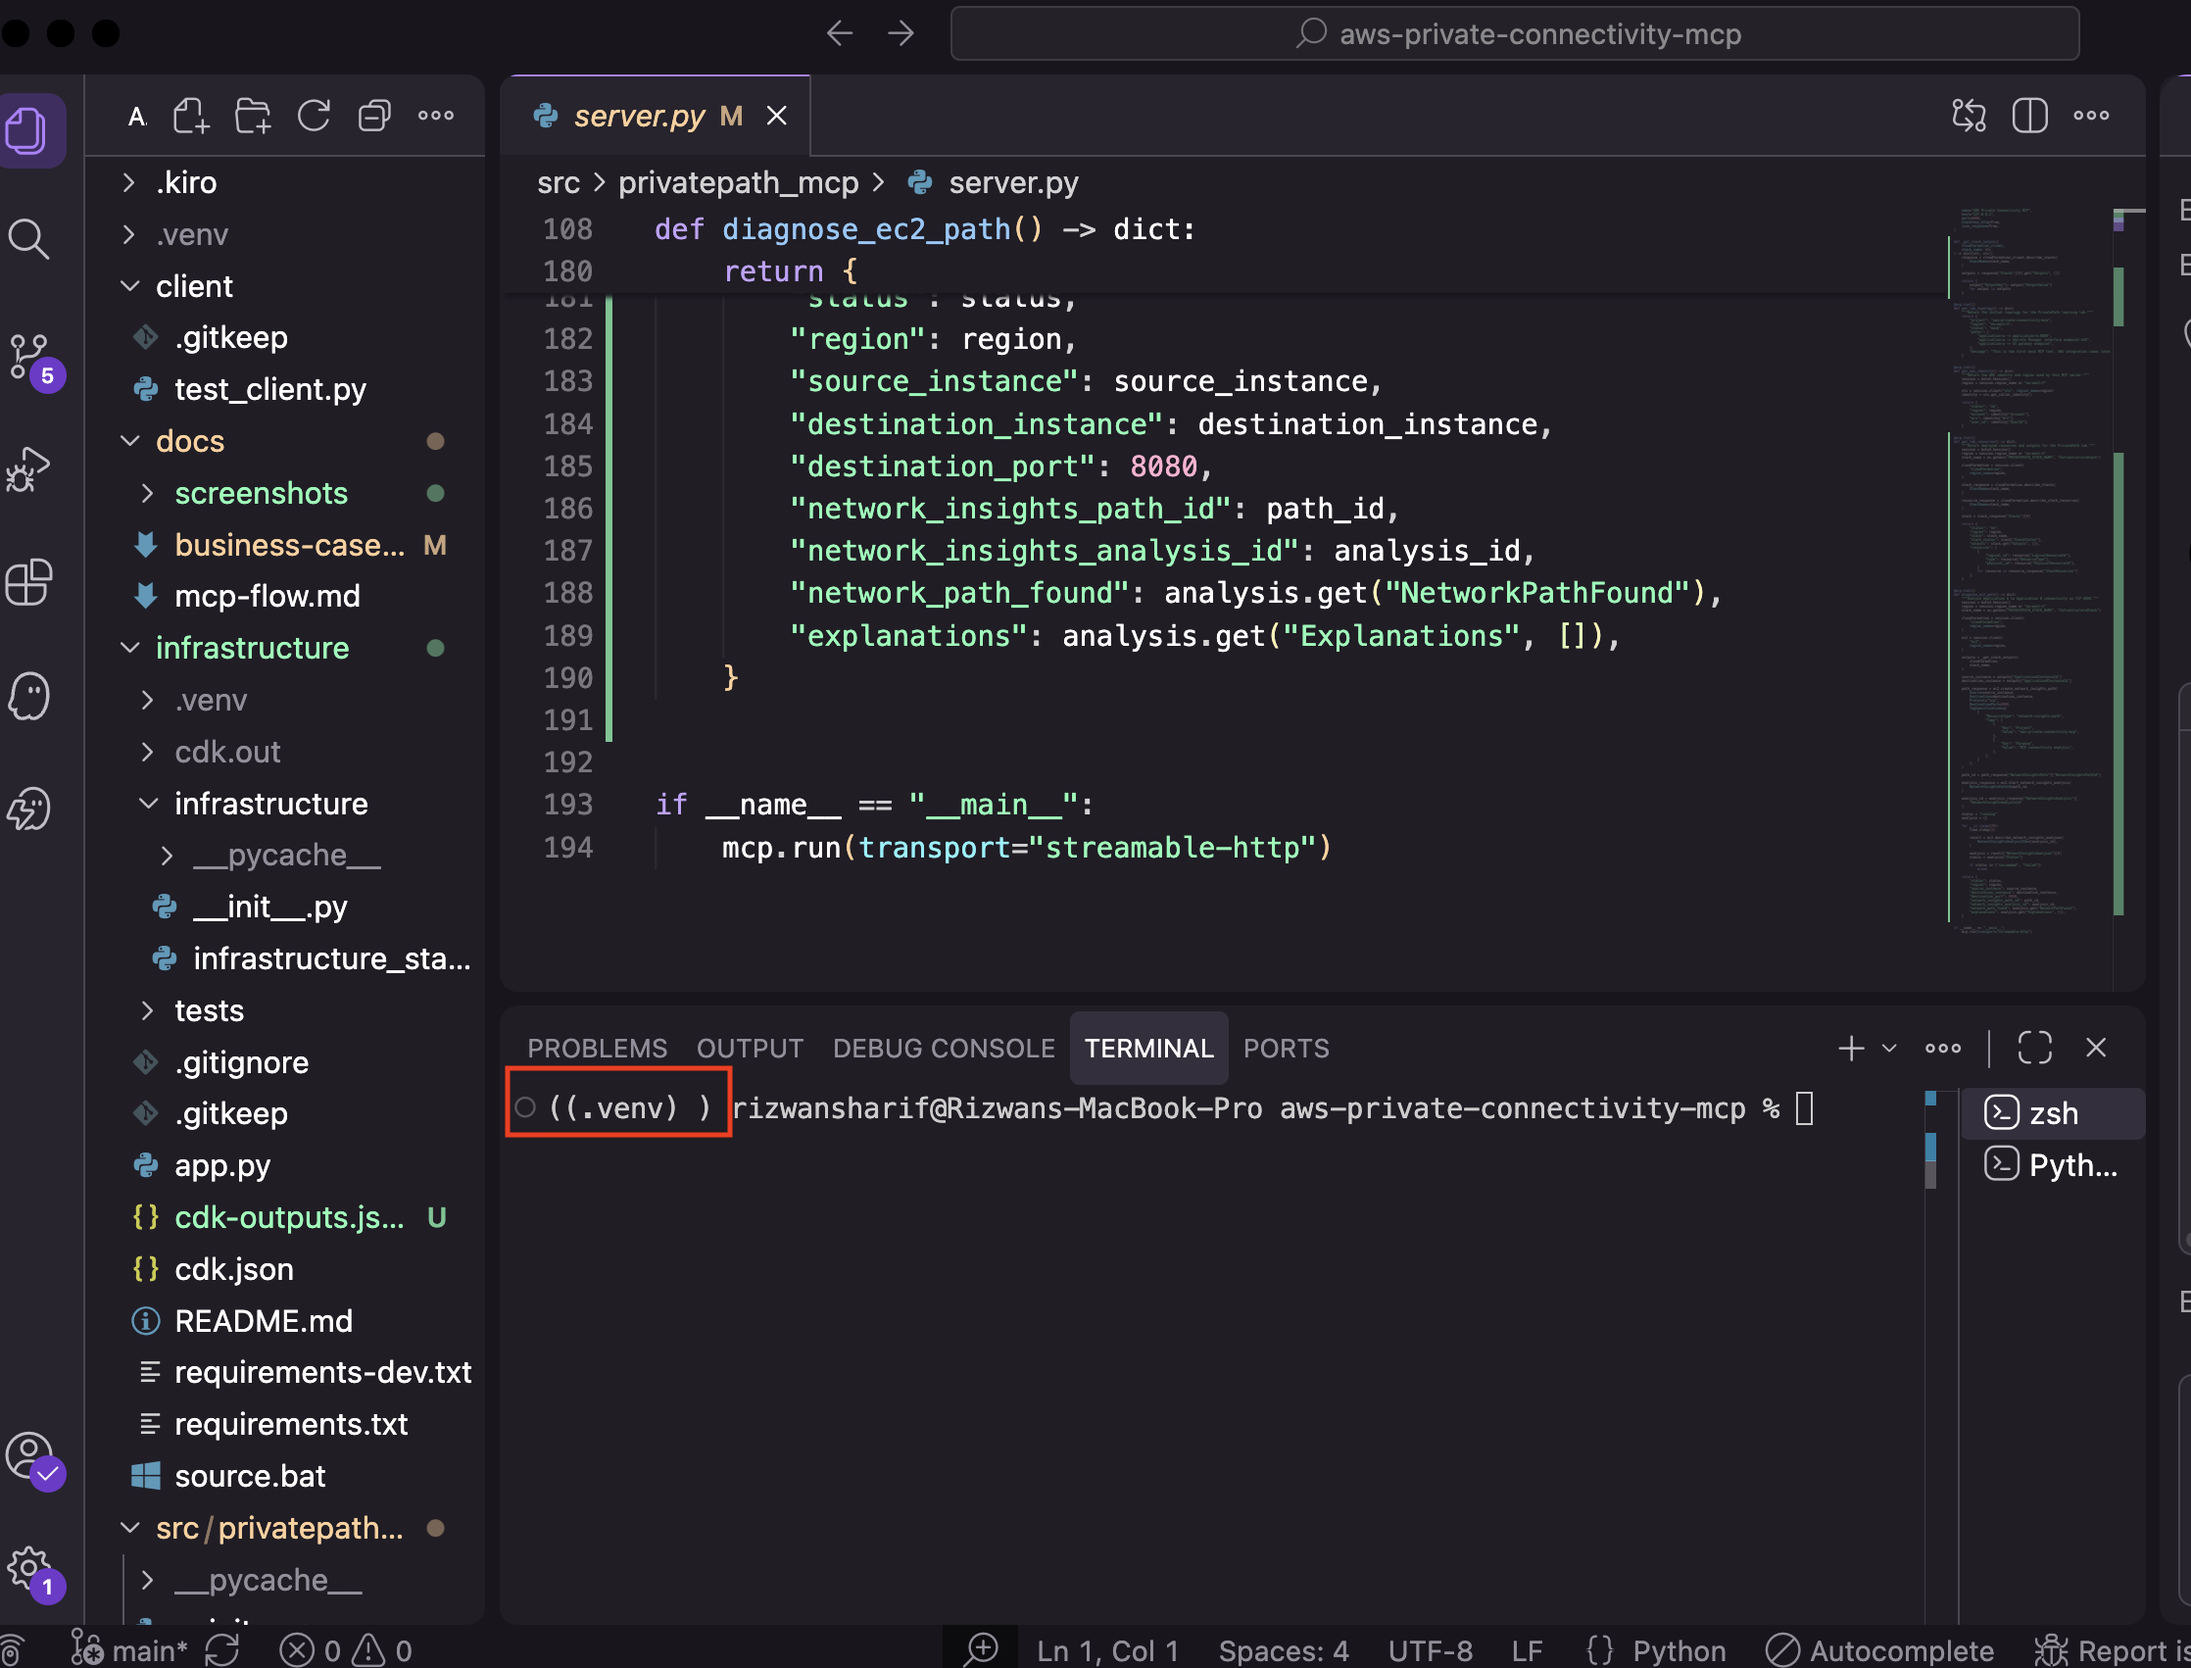
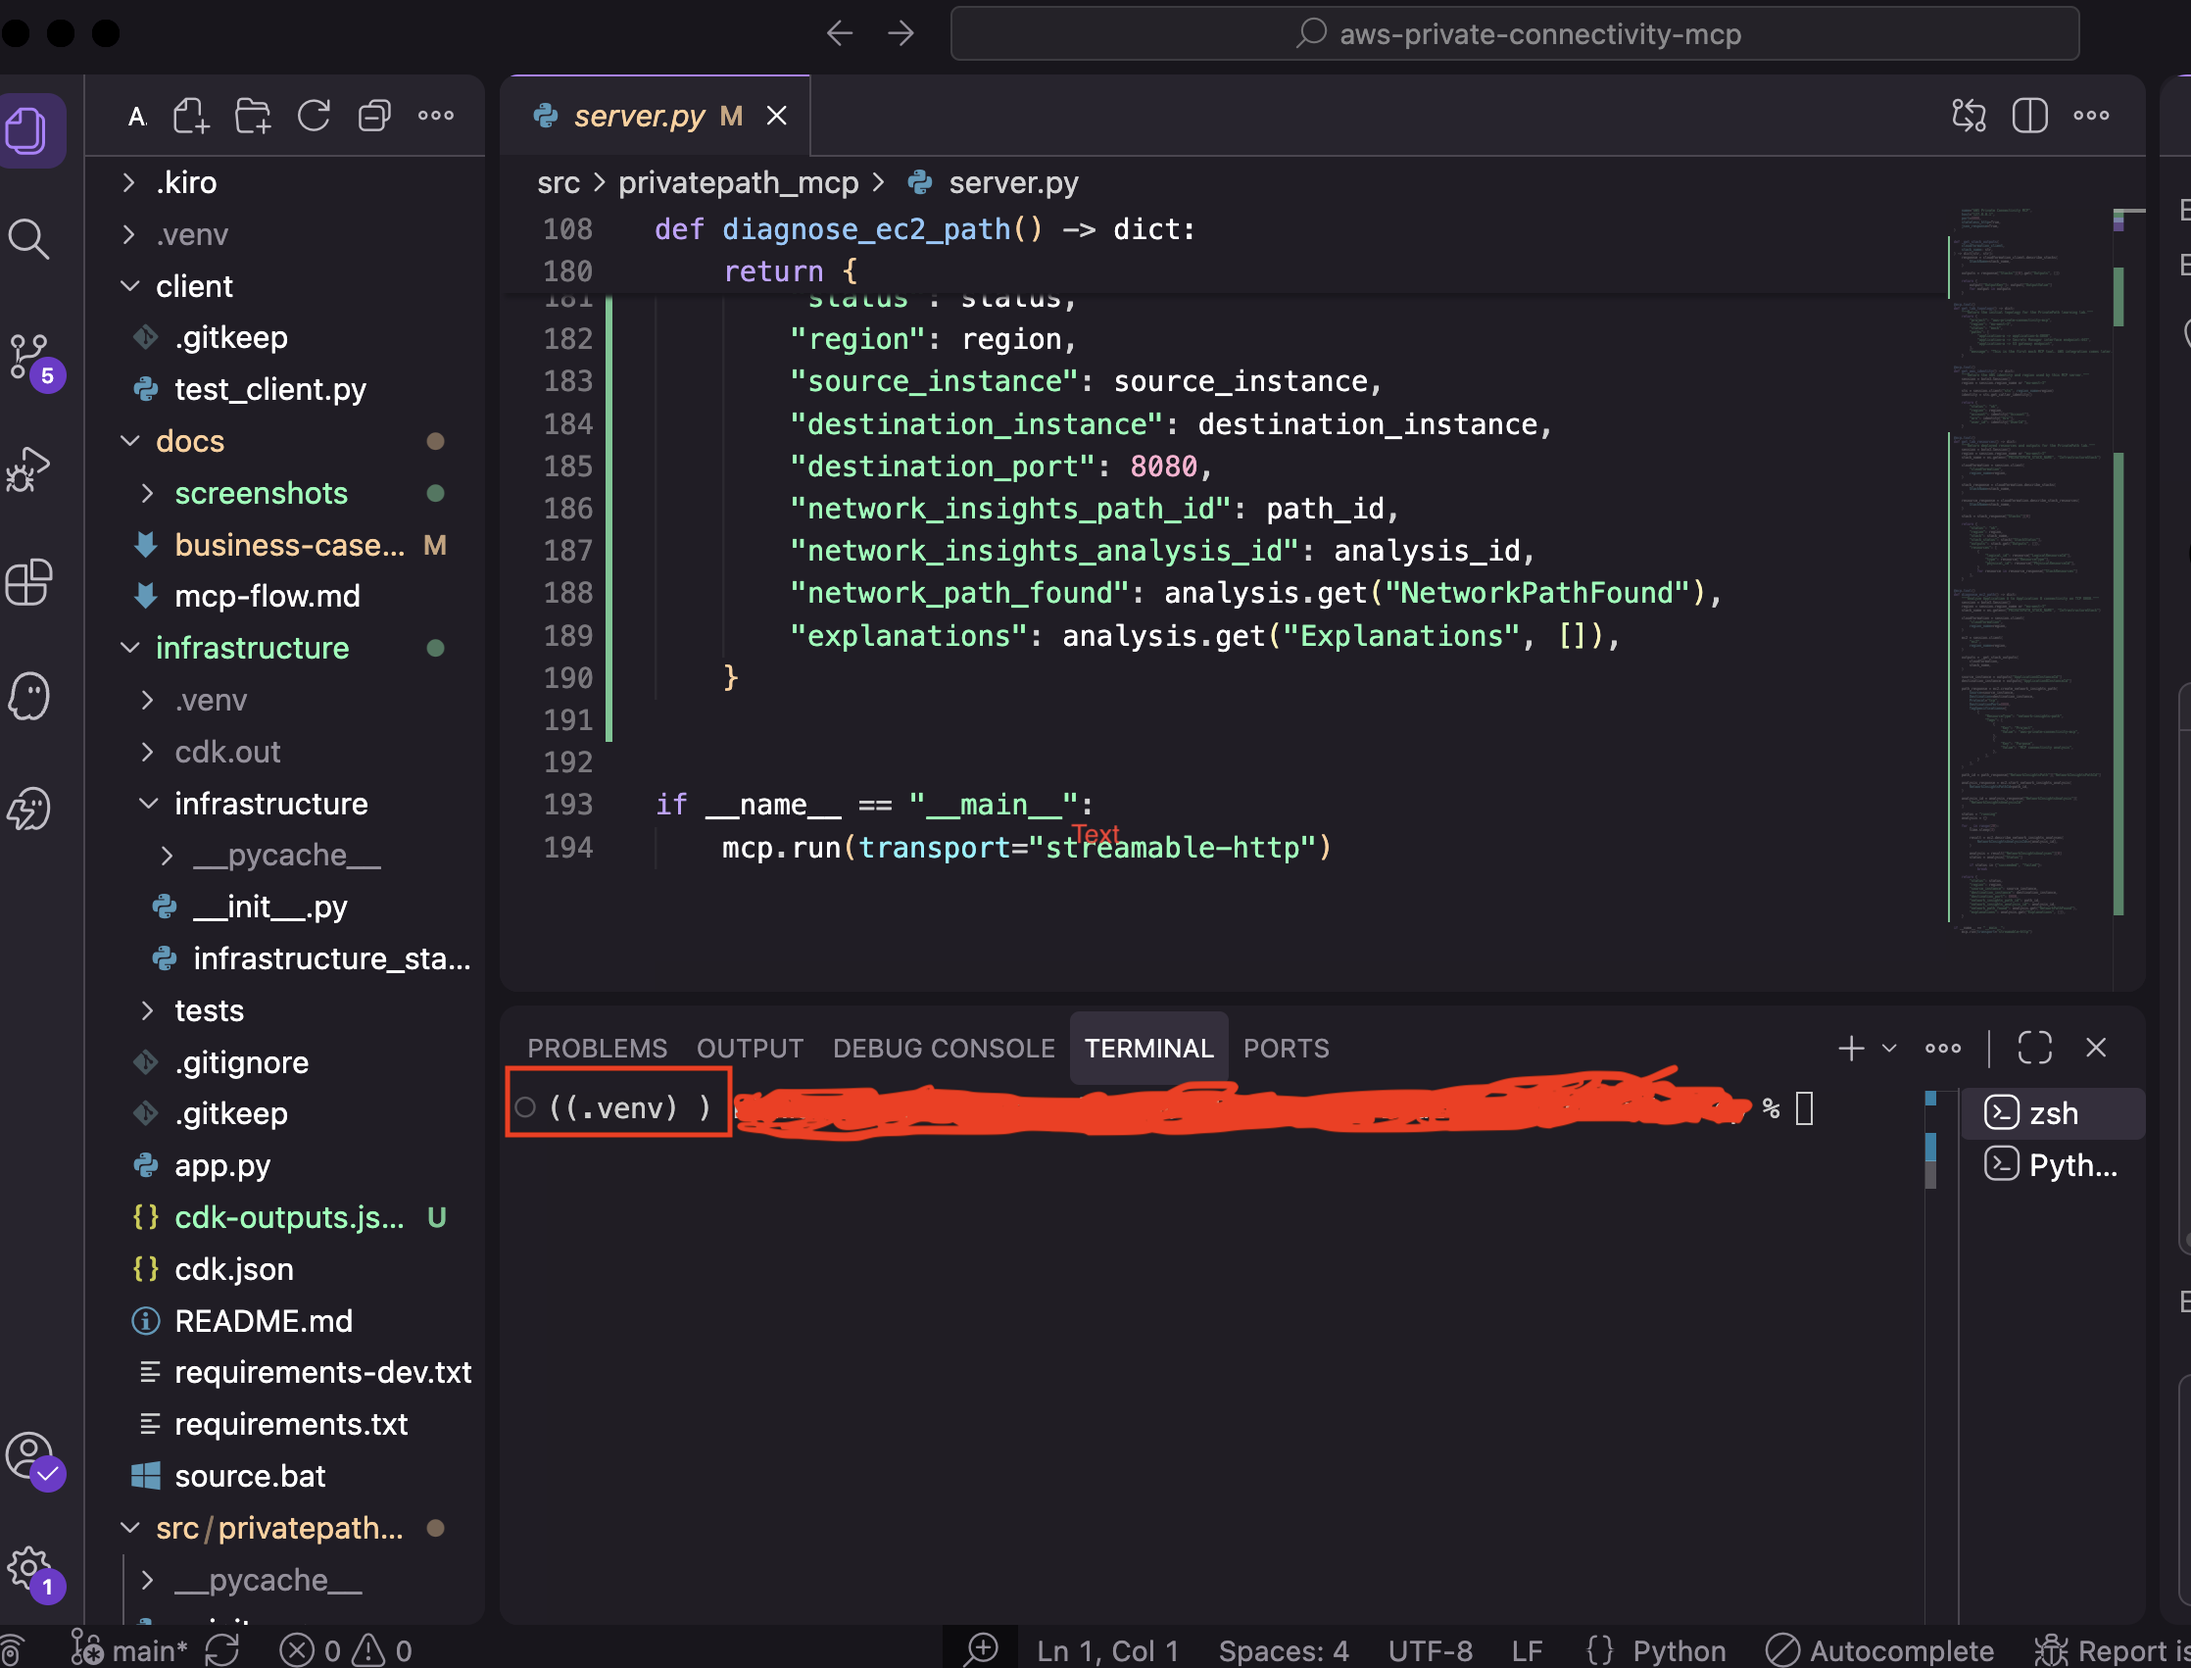
Add manually redacted Phase 1 screenshots

Changed region(s): [[0.3394, 0.6228, 0.8023, 0.6851]]

diff --git a/docs/business-case.md b/docs/business-case.md
@@ -39,8 +39,8 @@ Public evidence assets are stored under `docs/screenshots/`. The original privat
 
 | File | Phase evidence | Status |
 | --- | --- | --- |
-| `01-environment-and-repository.png` | Local repo, Kiro project, and environment setup with targeted blur | Captured and redacted |
-| `02-fastmcp-server-running.png` | FastMCP server listening on `127.0.0.1:8000` with targeted blur | Captured and redacted |
+| `01-environment-and-repository.png` | Local repo, Kiro project, and environment setup with targeted redaction | Captured and redacted |
+| `02-fastmcp-server-running.png` | FastMCP server listening on `127.0.0.1:8000` with targeted redaction | Captured and redacted |
 | `03-inspector-connected.png` | `privatepath-local` connected over Streamable HTTP | Captured |
 | `04-tools-list.png` | Inspector discovers `get_lab_topology` | Captured |
 | `05-tool-result.png` | Tool execution returns topology JSON | Captured |
